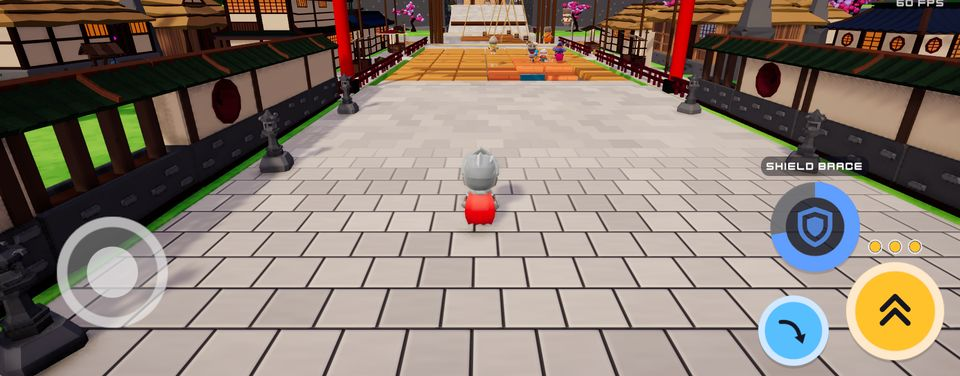
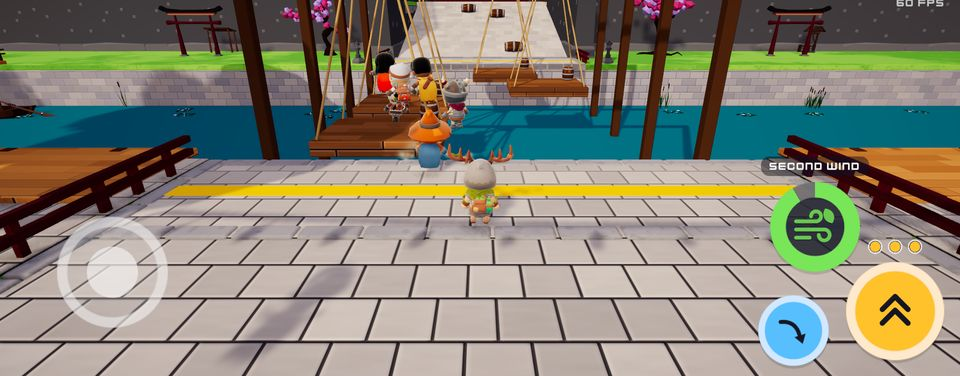
Add build 0.1.15 (track kerbs); new screenshots
Claude-Session: https://claude.ai/code/session_01FzaHRGmKnmzZe5ChVzUqpL

diff --git a/index.html b/index.html
@@ -123,9 +123,9 @@ footer { padding-block: 40px calc(40px + env(safe-area-inset-bottom, 0px)); colo
       <p class="eyebrow">Android test builds</p>
       <h1>ChibyRace</h1>
       <p class="lede">A party obstacle race: 8 racers, 4 maps, and traps that change every race.</p>
-      <a class="btn" href="https://github.com/AudriusBen/chibyrace-builds/releases/download/v0.1.14/ChibyRace-0.1.14.apk">
-        <b>Download 0.1.14</b>
-        <small>APK · 96.2 MB</small>
+      <a class="btn" href="https://github.com/AudriusBen/chibyrace-builds/releases/download/v0.1.15/ChibyRace-0.1.15.apk">
+        <b>Download 0.1.15</b>
+        <small>APK · 97.6 MB</small>
       </a>
       <ul class="facts">
         <li>Built 27 Oct 2026</li>
@@ -149,8 +149,8 @@ footer { padding-block: 40px calc(40px + env(safe-area-inset-bottom, 0px)); colo
   </section>
 
   <section class="wrap" aria-labelledby="new">
-    <div class="section-head"><h2 id="new">New in 0.1.14</h2></div>
-    <ul class="new"><li>Back to the painted ground of 0.1.12: the real pieces of 0.1.13 looked unnatural, especially where surfaces change.</li><li>Falling tiles keep their colour after they come back.</li></ul>
+    <div class="section-head"><h2 id="new">New in 0.1.15</h2></div>
+    <ul class="new"><li>Kerbs frame the track: rounded kerb stones (timber beams on Fjord Fortress) run along both edges and across every place where one surface meets another.</li><li>Trap floors that end at a drop get a kerb lip.</li></ul>
   </section>
 
   <section class="wrap" aria-labelledby="maps">
@@ -176,11 +176,22 @@ footer { padding-block: 40px calc(40px + env(safe-area-inset-bottom, 0px)); colo
   </section>
 
   <section class="wrap" aria-labelledby="all">
-    <div class="section-head"><h2 id="all">All builds</h2><p>13 builds, newest first.</p></div>
+    <div class="section-head"><h2 id="all">All builds</h2><p>14 builds, newest first.</p></div>
     <ul class="builds">
+      <li class="build" id="v0-1-15">
+        <div class="build-head">
+          <span class="ver">0.1.15</span><span class="pill">Latest</span>
+          <span class="meta">27 Oct 2026 · 97.6 MB</span>
+        </div>
+        <ul class="notes"><li>Kerbs frame the track: rounded kerb stones (timber beams on Fjord Fortress) run along both edges and across every place where one surface meets another.</li><li>Trap floors that end at a drop get a kerb lip.</li></ul>
+        <div class="build-foot">
+          <a class="btn-line" href="https://github.com/AudriusBen/chibyrace-builds/releases/download/v0.1.15/ChibyRace-0.1.15.apk">Download 0.1.15</a>
+          <details><summary>SHA-256</summary><code>8f84ecffdeada31b3217cbdb60470cab9ec9524c8ed3e1a93e31cfa021b14cd7</code></details>
+        </div>
+      </li>
       <li class="build" id="v0-1-14">
         <div class="build-head">
-          <span class="ver">0.1.14</span><span class="pill">Latest</span>
+          <span class="ver">0.1.14</span>
           <span class="meta">27 Oct 2026 · 96.2 MB</span>
         </div>
         <ul class="notes"><li>Back to the painted ground of 0.1.12: the real pieces of 0.1.13 looked unnatural, especially where surfaces change.</li><li>Falling tiles keep their colour after they come back.</li></ul>
